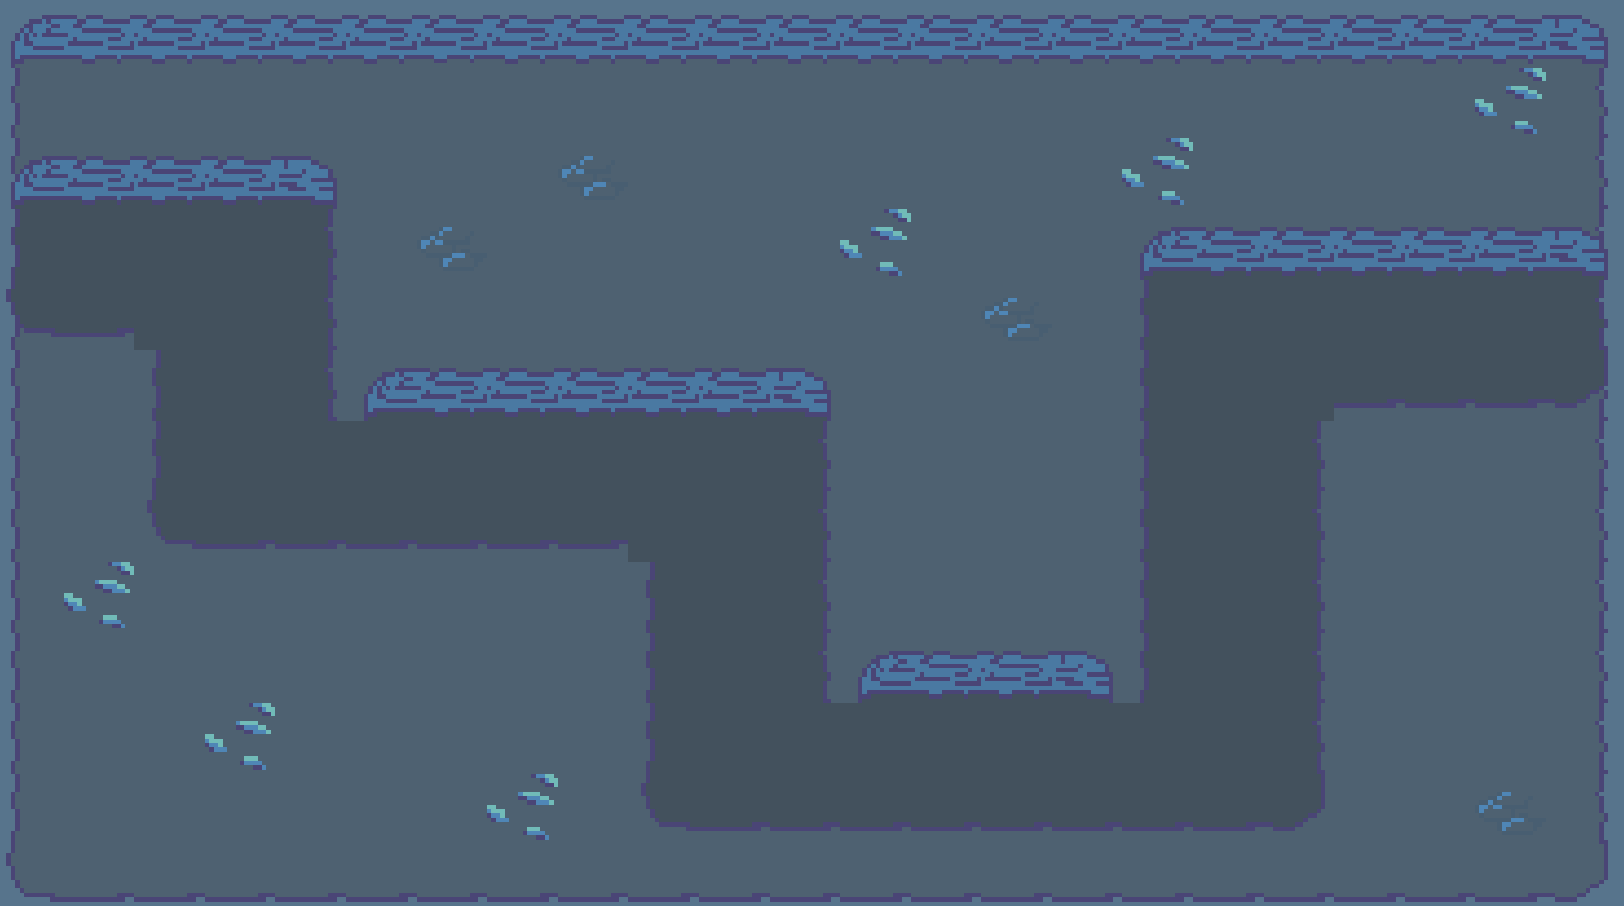
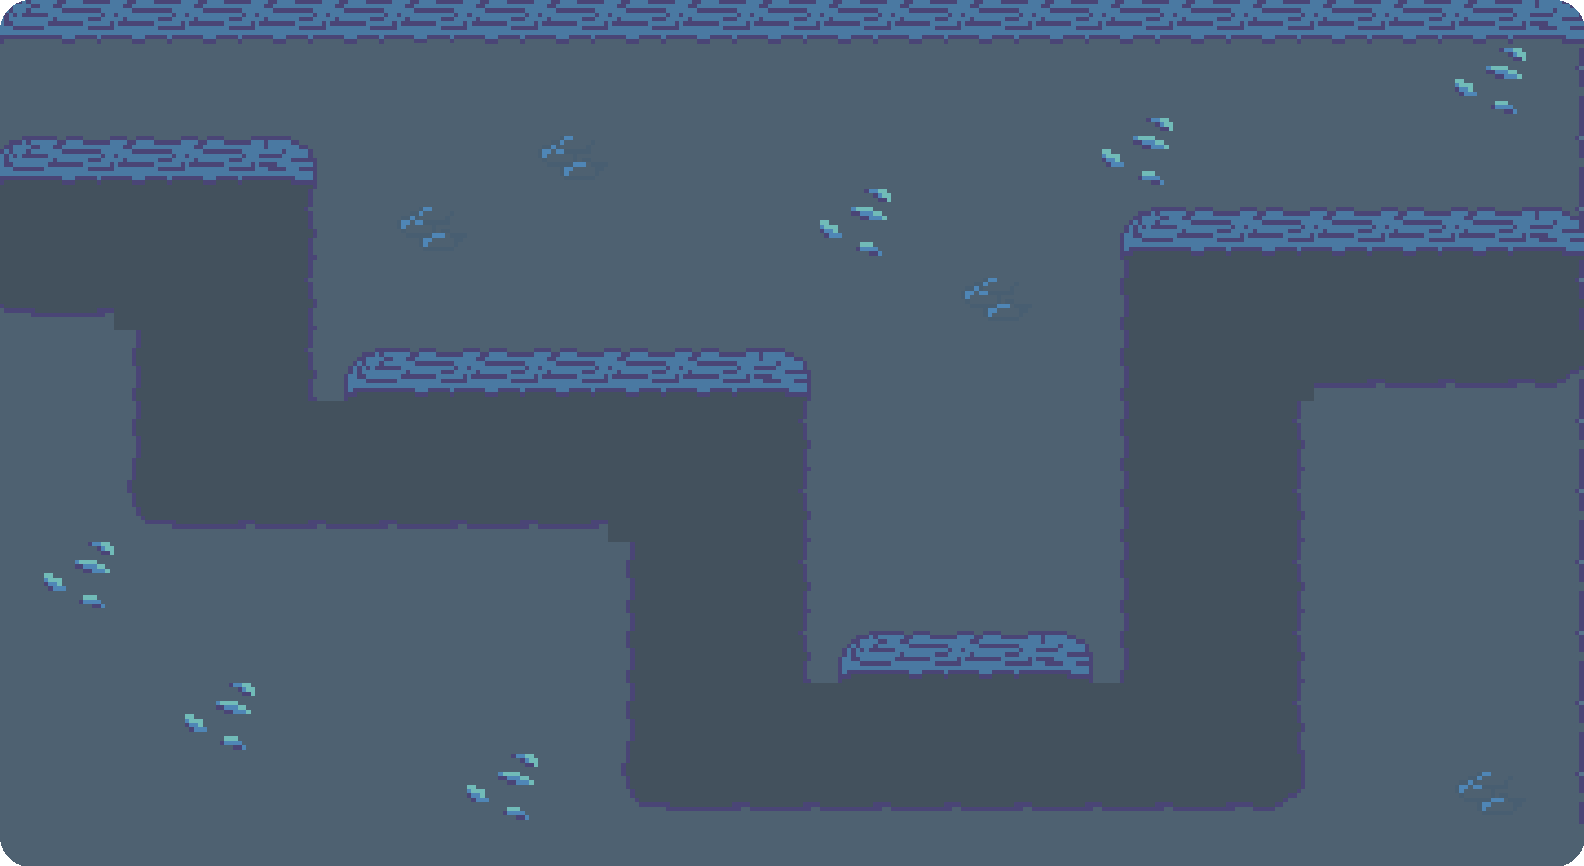
update gamescreenbackground and towermenu to have rounded corners and added css to hamburger menu

diff --git a/Koderz123/src/GameScreenComponents/HamburgerMenu.css b/Koderz123/src/GameScreenComponents/HamburgerMenu.css
@@ -3,15 +3,15 @@
 /* Outer Container */
 .hamburger-menu {
     position: fixed;
-    bottom: 2%;
-    left: 2%;
+    bottom: 4%;
+    left: 4%;
     z-index: 1000;
 }
 
 /* Hamburger Button */
 .hamburger-button {
     padding: 12px 16px;
-    background-color: #333;
+    background-color: #4d5667;
     color: white;
     border: none;
     border-radius: 8px;
@@ -22,17 +22,18 @@
 }
 
 .hamburger-button:hover {
-    background-color: #555;
+    background-color: #30558c;
+    transform: scale(1.05);
 }
 
 /* Bottom Image Modal */
 .menu-image-container {
     position: fixed;
     bottom: -50%;  /* Hidden off-screen by default */
-    left: 0;
-    width: 100%;
-    height: 40%;
-    background: black;
+    left: 10vw;
+    width: 80%;
+    height: 20%;
+    background: rgba(0, 0, 0, 0);
     display: flex;
     align-items: center;
     justify-content: center;

diff --git a/Koderz123/src/GameScreenComponents/HamburgerMenu.tsx b/Koderz123/src/GameScreenComponents/HamburgerMenu.tsx
@@ -17,7 +17,6 @@ const HamburgerMenu: React.FC = () => {
             {/* Bottom Image Modal */}
             <div className={`menu-image-container ${isMenuOpen ? "open" : ""}`}>
                 <img src={MenuImage} alt="Menu" className="menu-image" />
-                <button className="close-button" onClick={toggleMenu}>✖</button>
             </div>
         </div>
     );

diff --git a/Koderz123/src/GameScreenComponents/GameScreen.tsx b/Koderz123/src/GameScreenComponents/GameScreen.tsx
@@ -27,7 +27,7 @@ const GameScreen: React.FC = () => {
                     Exit
                 </button>
 
-                <div className="game-screen">
+                <div>
                 <HamburgerMenu />
                 </div>
   
